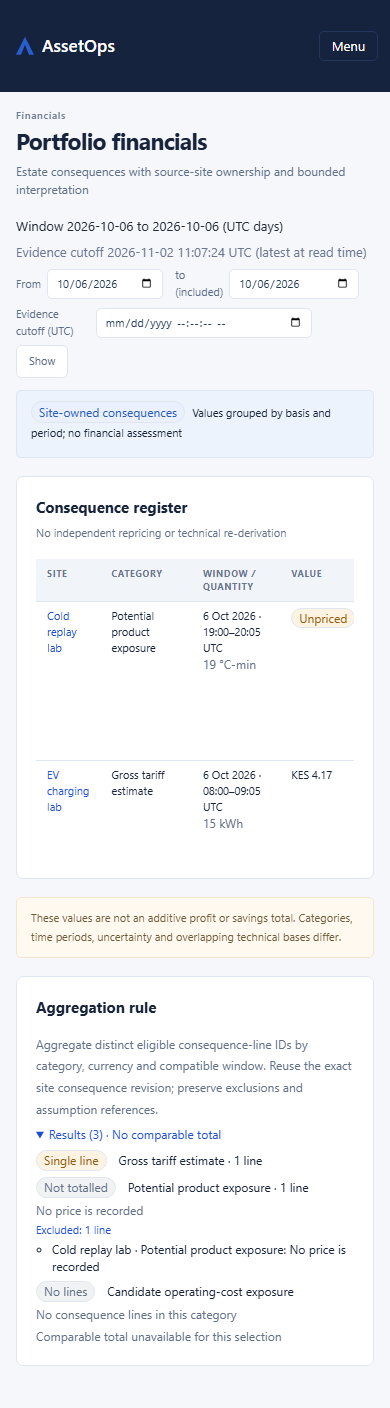
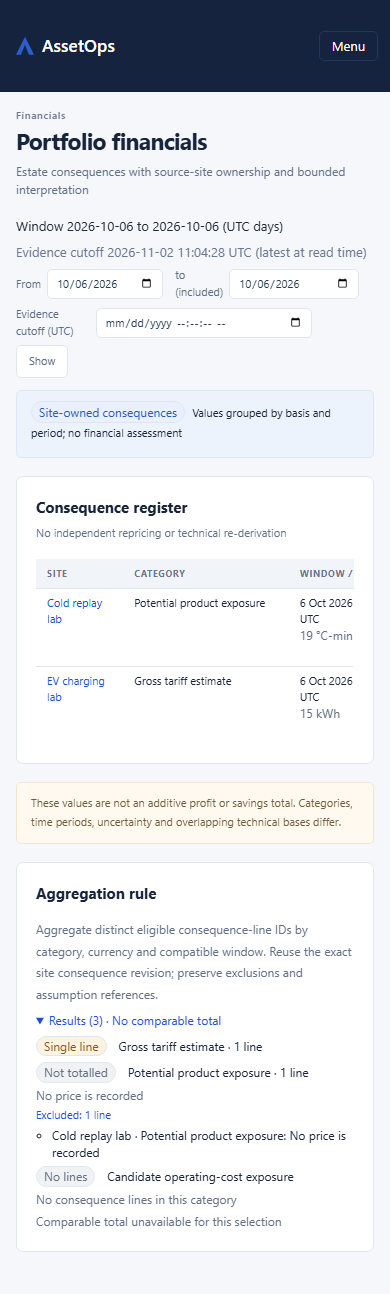
W3-02 final review fixes: 390 register shows three rows before scrolling, packet, Low fixes

diff --git a/frontend/src/estate/__tests__/estateFinancials.test.tsx b/frontend/src/estate/__tests__/estateFinancials.test.tsx
@@ -253,12 +253,12 @@ describe("W3-02 estate Financials root", () => {
     expect(cold[3].querySelector("[data-estate-eligibility='UNPRICED']")?.textContent).toBe("Unpriced");
     expect(cold[3].querySelector(".estate-chip")?.className).toContain("estate-tone--amber");
     expect(cold[4].textContent).toContain("Stock value is not declared");
-    expect(cold[4].textContent).toContain("Basis: 0 revisions");
+    expect(cold[4].textContent).toContain("Basis details");
     // EV: half even to two places as its Site page; a two-day window shows both endpoints; one kWh value.
     expect(ev[2].textContent).toBe("14 Oct 2026 · 08:00 UTC – 15 Oct 2026 · 08:00 UTC12.5 kWh");
     expect(ev[3].textContent).toBe("$36.00");
     expect(ev[4].textContent).toContain("Gross scenario only; not cash collected.");
-    expect(ev[4].textContent).toContain("Basis: 1 revision");
+    expect(ev[4].textContent).toContain("Basis details");
     // Exact IDs live in the closed basis disclosure only.
     const details = ev[4].querySelector("details") as HTMLDetailsElement;
     expect(details.open).toBe(false);
@@ -507,6 +507,13 @@ describe("W3-02 commit 4 measured Financials layout", () => {
       expect(t.client).toBeGreaterThan(0);
       expect(t.rows).toBeGreaterThan(0);
       expect(t.scroll).toBeGreaterThanOrEqual(t.client); // the table scrolls inside its own container
+      // Final review H1: the mock's three-row baseline is visible at 390 before any vertical internal scroll, and a
+      // register of up to three rows plus its notes stays within the 448 px cap.
+      const cap = parseFloat(t.maxH);
+      const threeRows = t.headH + 3 * Math.max(...t.rowHs);
+      expect(threeRows, `${state} header + 3 rows fit the list cap`).toBeLessThanOrEqual(cap);
+      expect(t.scrollH, `${state} register list does not scroll vertically at ${t.rows} rows`).toBeLessThanOrEqual(t.clientH);
+      expect(narrow!.pieces.register.h - t.clientH + threeRows, `${state} three-row register within 448`).toBeLessThanOrEqual(448);
       expect(t.client).toBeLessThanOrEqual(narrow!.docClientW);
       const all = JSON.parse(await readDisk(file)).results as Record<string, any>[];
       for (const r of all) {

diff --git a/frontend/src/estate/EstateFinancials.tsx b/frontend/src/estate/EstateFinancials.tsx
@@ -100,10 +100,9 @@ function ids(values: string[]): string {
 }
 
 function BasisDetails({ row }: { row: FinancialRow }) {
-  const n = row.assumption_revision_ids.length;
   const pinned = row.eligibility === "ELIGIBLE" ? null : lineMoney(row, row.disclosure.pinned_amount);
   return (
-    <Disclosure summary={`Basis: ${n} ${n === 1 ? "revision" : "revisions"}`} name="estate-financials-row" variant="inline">
+    <Disclosure summary="Basis details" name="estate-financials-row" variant="inline">
       <dl className="estate-evidence-facts">
         <dt>Site</dt>
         <dd>{row.site_name.trim() !== "" ? `${row.site_name} · ${row.site_code}` : row.site_code}</dd>
@@ -315,10 +314,10 @@ function AggregationResults({ body }: { body: EstateFinancialsBody }) {
       <Disclosure
         summary={
           <>
-            <span aria-hidden="true" data-estate-summary-text>
+            <span data-estate-summary-text>
               {summary.visible}
             </span>
-            <span className="visually-hidden">{summary.spoken}</span>
+            <span className="visually-hidden"> {summary.spoken}</span>
           </>
         }
         name="estate-financials-results"

diff --git a/frontend/src/ui/PageHeader.tsx b/frontend/src/ui/PageHeader.tsx
@@ -23,7 +23,7 @@ import type { ReactNode } from "react";
  * `actions` renders nothing when empty, so a screen with no action gets no
  * container and no gap.
  *
- * `eyebrow` (W3-02 c2b) is a small muted uppercase line above the title row,
+ * `eyebrow` (W3-02 c2b) is a small muted line above the title row,
  * the mock's section label over an estate root's heading (`Evidence` over
  * `Portfolio evidence`). It is not a breadcrumb, and it renders nothing when
  * empty so every other header keeps its spacing.
@@ -32,7 +32,7 @@ import type { ReactNode } from "react";
  * which is how every screen in this tree already names its `<main>`.
  */
 export interface PageHeaderProps {
-  /** A small muted uppercase line above the title row. Nothing renders when this is empty. */
+  /** A small muted line above the title row. Nothing renders when this is empty. */
   eyebrow?: ReactNode;
   /** The level-1 heading text. */
   title: ReactNode;

diff --git a/frontend/src/estate/estateFinancials.css b/frontend/src/estate/estateFinancials.css
@@ -63,6 +63,10 @@
 }
 
 @media (max-width: 640px) {
+  /* Final review H1: the three-row baseline (header + 3 measured rows) fits before the list scrolls internally. */
+  .estate-page[data-estate-root="financials"] .estate-financials-table .data-table {
+    min-width: 800px;
+  }
   .estate-financials-table .data-table__scroll {
     max-height: 300px;
   }

diff --git a/.agent/W3-02-pending-rulings.md b/.agent/W3-02-pending-rulings.md
@@ -2,14 +2,14 @@
 
 Recorded, not decided. Commit 1 code (`8d1e6325`, `c9e19695`) applies the reading named in each item; a ruling may change it.
 
-## c1-q1 - EV `historical_label` vs "explicit earlier cutoff" (affects commit 3)
+## c1-q1 - RESOLVED (Commit-1 rulings (c1), .agent/W3-02-build-spec.md) - EV `historical_label` vs "explicit earlier cutoff" (affects commit 3)
 0c `EvSiteReads.money_on` (`ev_site_reads.py:349`) sets `historical_label` only when the pinned snapshot `state == "HISTORICAL"`. That state is `known_at < watermark` in `EvReadService._snapshot` (`postgres_assessment_store.py` "historical = known_at is not None and watermark is not None and known_at < watermark"), where `known_at` is the row-local Site evidence cutoff (max disposition by the estate `k`). The 0c H1 ruling says `Historical as of {known_at}` applies "for an explicit earlier cutoff", and closure 1 Q1 / 0b M3 define HISTORICAL as estate `known_at` earlier than the captured DB time.
 They differ: an explicit earlier estate cutoff with no disposition after it gives `known == watermark`, so the state is not HISTORICAL and `historical_label` is null, while the estate rule says the row is historical. Question: should commit 3 derive the label from the estate cutoff (`snap.basis_historical`), ignoring `historical_label`, or should Lane A change the facade? Commit 1 Evidence does not use this field. It applies the estate rule itself through `snap.basis_historical`.
 
-## c1-q2 - EV `METER_GAP` input not exposed by the pinned facade
+## c1-q2 - RESOLVED (Commit-1 rulings (c1), .agent/W3-02-build-spec.md) - EV `METER_GAP` input not exposed by the pinned facade
 Closure 1 Q4 takes EV gaps from the complete `_next_candidates(missing, power_missing, unknown_meter)`. The 0c `EvSiteReads.capabilities_on` returns capabilities but not the selected sessions' `unknown_meter_seconds`. Interim: `EvidenceMoneySnapshot.ev_capabilities` (`estate/adapters/postgres_evidence_money_read.py`) calls `ev_site._sessions(ev_site._pinned_ctx(c, pin))` on the same connection. This is a private call, and the pinned context is built twice. Question: should Lane A add `unknown_meter` (or the session list) to `capabilities_on`?
 
-## c1-q3 - readings applied where the spec is silent (confirm or amend)
+## c1-q3 - RESOLVED (Commit-1 rulings (c1), .agent/W3-02-build-spec.md) - readings applied where the spec is silent (confirm or amend)
 1. EV gap codes that affect only supporting claims (`INDEPENDENT_POWER_GAP`, `SITE_IMPORT_GAP`, `TARIFF_GAP`) still form a group with `unlocks: []`. A code affects a display row only through that row's claim's missing roles.
 2. Current gaps come from CURRENT (and W1 CURRENT-day) rows only. They do not come from pending, stale, unknown or historical rows. A pending or stale row keeps its prior readiness and limitation in `disclosure.prior_selection`.
 3. `summary.capability_count` is the display-row count (equal to `total_count`) even under partial coverage. `full/limited/none/unknown_count` are non-null only when `status == CURRENT` and coverage is COMPLETE, and are zeros for EMPTY_SCOPE. `limited_site_count` is also null when any row is CONTRADICTORY ("null affected count").
@@ -22,14 +22,14 @@ Closure 1 Q4 takes EV gaps from the complete `_next_candidates(missing, power_mi
 
 Recorded, not decided. Commit 2 (`d9f898e7`) applies the reading named in each item.
 
-## c2-q1 - gap `Sites` cell names
+## c2-q1 - RESOLVED (Commit-2 rulings (c2/c2b), .agent/W3-02-build-spec.md) - gap `Sites` cell names
 Closure 1 says the gaps `Sites` cell shows sorted stored Site names with codes in disclosure. The accepted commit-1
 wire `gaps[]` carries `site_ids` and `site_codes` only, and `rows` is paged, so a gap's Site may not be on the page.
 Interim: the page maps code -> name from the loaded rows and falls back to the stored code; codes are in the gap's
 disclosure. Question: should commit-1's `_groups` add `site_names` (Lane B `estate/evidence_money.py`), or is the
 code fallback acceptable?
 
-## c2-q2 - refusal copy for codes the W3-02 state table does not name
+## c2-q2 - RESOLVED (Commit-2 rulings (c2/c2b), .agent/W3-02-build-spec.md) - refusal copy for codes the W3-02 state table does not name
 The table names copy for 401/403/404/503, `ESTATE_BASIS_CHANGED`, `INVALID_WINDOW`, `ESTATE_PARAMETER_UNKNOWN`/
 `ESTATE_CURSOR_INVALID`. The endpoint actually sends W3-01 codes, including `ESTATE_SELECTION_INCONSISTENT`,
 `INVALID_KNOWN_AT`, `INVALID_LIMIT`, `INVALID_CURSOR`, `ESTATE_STORE_UNAVAILABLE`. Interim (`EVIDENCE_REFUSAL_COPY`):
@@ -37,7 +37,7 @@ The table names copy for 401/403/404/503, `ESTATE_BASIS_CHANGED`, `INVALID_WINDO
 `INVALID_CURSOR` -> `This selection cannot be read. Reset the filters.` (the W3-01 `INVALID_KNOWN_AT` copy says
 "cutoff", which the plain-language rule excludes). Confirm or amend.
 
-## c2-q3 - closure-5 B5 route-read tests for commit 2
+## c2-q3 - RESOLVED (Commit-2 rulings (c2/c2b), .agent/W3-02-build-spec.md) - closure-5 B5 route-read tests for commit 2
 B5 asks commit 2 route-read tests to follow generated cold/EV Evidence links into the Site read and assert the exact
 window/cutoff, no 422 and base-route fallback. Commit 1's Postgres tests assert the link shape
 (`test_w302_evidence_cold_scope_windows_and_citations`, `test_w302_evidence_ev_window_rows_links_and_gaps`) but do
@@ -45,13 +45,13 @@ not call the W2 Site read with it. This run built only the page/client and UI te
 into the W2 cold/EV Site API a Lane B Postgres test for this commit (new `test_w302_evidence_links_postgres.py`), or
 part of Lane A's mounted-route captures?
 
-## c2-q4 - row context words
+## c2-q4 - RESOLVED (Commit-2 rulings (c2/c2b), .agent/W3-02-build-spec.md) - row context words
 The ledger says pending amber / historical blue context is shown separately from the readiness chip. The page uses
 `New evidence is being assessed` (PENDING_RECOMPUTE), `May miss newer readings` (STALE_SOURCE), `Not yet assessed`
 (UNASSESSED/UNKNOWN placeholder) and `Historical as of {estate known_at}`; the server's row
 `disclosure.historical.label` stays in the row disclosure. Confirm the words.
 
-## c2-q5 - registry prerequisites for `I-estate-evidence-root` (Lane A, commit 2)
+## c2-q5 - RESOLVED (Commit-2 rulings (c2/c2b), .agent/W3-02-build-spec.md) - registry prerequisites for `I-estate-evidence-root` (Lane A, commit 2)
 Closure 5 S13 names the node, title and paths but not prerequisites or area. The checker forces the panel area to the
 subject-area brief's owner of `globalevidence` (`estate-aggregation`), and needs a UI, a projection and a data gate.
 Lane A recorded, by the W3-01 `I-estate-action-root` precedent: node `requires` `A-estate-index-scope`,
@@ -59,10 +59,10 @@ Lane A recorded, by the W3-01 `I-estate-action-root` precedent: node `requires` 
 `D-estate-comparable-sites`, status `gap` (awaiting independent review, no owner acceptance); ledger product node
 `P-estate-area`; the brief's `implementation_nodes` lists the new node. Confirm or name the intended nodes.
 
-## c2-q6 - B5 route-read follow tests and capture copy (Lane A observation, commit 2)
+## c2-q6 - RESOLVED (Commit-2 rulings (c2/c2b), .agent/W3-02-build-spec.md) - B5 route-read follow tests and capture copy (Lane A observation, commit 2)
 c2-q3 is unchanged by the captures: Lane A's captures do not follow generated cold/EV links into the W2 Site read.
 
-## c2-q7 - raw role code in the Current ceiling cell (Lane B, commit 2 fixes)
+## c2-q7 - RESOLVED (Commit-2 rulings (c2/c2b), .agent/W3-02-build-spec.md) - raw role code in the Current ceiling cell (Lane B, commit 2 fixes)
 The cold `backup` row's `Current ceiling` shows `Not observed: TRANSFER.` That text is the stored cold analytic
 limitation (`analytics/cold.py:645`, `"Not observed: " + ", ".join(missing) + "."`, where `missing` holds start-chain
 step names such as `TRANSFER`), carried verbatim into `current_ceiling` by `_shape_window_row` (limitations joined).
@@ -72,7 +72,7 @@ Question: (a) map on the Evidence wire (estate `current_ceiling` gets a plain se
 stored limitation kept in `Record details`), (b) map on the page from a closed step dictionary, or (c) leave the stored
 limitation verbatim and accept it? If (a)/(b), name the step words (the cold chain's steps: which codes and labels).
 
-## c2-q8 - Evidence tests do not settle on the store read (Lane A observation, commit 2 c2b)
+## c2-q8 - RESOLVED (Commit-2 rulings (c2/c2b), .agent/W3-02-build-spec.md) - Evidence tests do not settle on the store read (Lane A observation, commit 2 c2b)
 `frontend/src/test/settled.ts` `LOADING` does not list `EstateEvidence.tsx`'s loading copy `Loading evidence across the
 estate.`, so `settledScreen()` returns immediately in `estateEvidence.test.tsx` and the assertions race the fake read.
 Under full-suite load it flaked twice on `39afe950` (`rendersEvidenceEmptyPendingAndRefusals` line 323, panels `[]`;
@@ -80,7 +80,7 @@ once `namesGapSitesFromTheWireNotThePage`), and the file passes alone (4/4 runs)
 test infra outside c2b's assignment. Question: who adds `evidence across the estate` to `LOADING` (Lane A shared test
 helper, or Lane B with its page), and in which commit?
 
-## c3-q1 - closure 2 N3 STOP: two-EV-Site persisted COMPARABLE fixture unavailable through reviewed producers (Lane B, commit 3)
+## c3-q1 - RESOLVED (Commit-3 rulings (c3), .agent/W3-02-build-spec.md) - closure 2 N3 STOP: two-EV-Site persisted COMPARABLE fixture unavailable through reviewed producers (Lane B, commit 3)
 Built: Financials read/API (`estate/financials.py`, `estate_evidence_money_api.py` `/api/estate/financials`,
 `postgres_evidence_money_read.py` `cold_money`/`ev_money`, `evidence_money.py:group_key_for_partition`), pure tests
 and one persisted single-EV-Site proof (`test_w302_money_comparability_postgres.py::test_w302_money_persisted_ev_single_site_line`:
@@ -98,7 +98,7 @@ fixture (code, import YAML, bindings, gateway) and a same-DB two-chain harness, 
 proof contract (e.g. two disjoint EV windows on EV-LAB-001 with the same tariff, which differ in `window_start/end`
 and so can never share a partition); or (c) another fixture you name.
 
-## c3-q2 - interpretations taken in commit 3 (confirm or correct)
+## c3-q2 - RESOLVED (Commit-3 rulings (c3), .agent/W3-02-build-spec.md) - interpretations taken in commit 3 (confirm or correct)
 1. `RECORDED_REPAIR` lines are listed/partitioned when a stored head exists but the category gets no `NO_LINES`
    sentinel (outside the three-category mock enum). Sentinel categories: mini-grid operating cost, cold product
    exposure, EV gross tariff.
@@ -113,7 +113,7 @@ and so can never share a partition); or (c) another fixture you name.
    cited IDs are the lines' basis evidence union; Finding/consequence/assumption arrays come from the lines.
 7. `test_w302_money_unknown_coverage_precedes_no_lines` runs over the fake snapshot (pure) in the named Postgres file.
 
-## c3-q3 - c3-q1 fixture: the second registered draft run is refused (Lane B, commit 3; N3 still holds)
+## c3-q3 - RESOLVED (Commit-3 rulings (c3), .agent/W3-02-build-spec.md) - c3-q1 fixture: the second registered draft run is refused (Lane B, commit 3; N3 still holds)
 Built per c3-q1 at `fefa5ab4`: `backend/tests/fixtures/w3/ev-lab-002.yaml`, `backend/conversions/ev-lab-002-bindings.json`,
 `install_second_ev_site` and `two_ev_sites` in `test_w302_money_comparability_postgres.py`, and the W2-05b harness
 parameters (`ev_request(case, *, site_code, seed)`, `Chain.open(*, fresh, install)`, Site-coded `_gateway/scope/replay`).
@@ -167,7 +167,7 @@ validated Site/seed in `EvScenarioDefinition`; `(EV-LAB-001, 20517)` unchanged f
 
 # W3-02 pending rulings (Lane B, commit 4)
 
-## c4-q1 - copy readings taken on the Financials page (confirm or correct)
+## c4-q1 - RESOLVED (Commit-4 rulings (c4), .agent/W3-02-build-spec.md) - copy readings taken on the Financials page (confirm or correct)
 Built and tested; not blocking. Each is page copy only (`frontend/src/estate/estateFinancialsWords.ts`, `EstateFinancials.tsx`).
 1. `PENDING` line `Value` word `Pending` (amber); the ledger lists Unpriced/Withheld/Unknown/Historical/Not comparable
    only. `CONFLICT` = `Not comparable` (red); `HISTORICAL` = `Historical as of {as_of}` (blue).
@@ -188,7 +188,7 @@ Built and tested; not blocking. Each is page copy only (`frontend/src/estate/est
 7. Exclusions render per group in a closed `Excluded: N lines` disclosure (Site · category: reasons; an off-page line
    shows its line key).
 
-## c4-q2 - registry prerequisites and ledger literal for `I-estate-money-root` (Lane A, commit 4)
+## c4-q2 - RESOLVED (Commit-4 rulings (c4), .agent/W3-02-build-spec.md) - registry prerequisites and ledger literal for `I-estate-money-root` (Lane A, commit 4)
 Closure 5 S13 names the node, screen title and paths but not area or prerequisites. The checker forces the panel area
 to the subject-area brief owner of `globalfinancials` (`money`). Lane A recorded, by the c2-q5 Evidence precedent:
 node area `money`, `requires` `A-estate-index-scope`, `I-financial-read`; panels `globalfinancials:1`
@@ -198,7 +198,7 @@ node area `money`, `requires` `A-estate-index-scope`, `I-financial-read`; panels
 commit-4 item 4 proposed; money brief `implementation_nodes` lists the node. Confirm, or name the intended
 area/nodes and the data_owner literal.
 
-## c4-q3 - stocked capture has no mini-grid line (Lane A, commit 4 captures)
+## c4-q3 - RESOLVED (Commit-4 rulings (c4), .agent/W3-02-build-spec.md) - stocked capture has no mini-grid line (Lane A, commit 4 captures)
 The capture seed (`.agent/W3-02-evidence/serve-financials.py`: KOBO S4 F01/F02 + S6, COLD excursion + W2-04 worker,
 EV interrupted + W2-07 money) yields two register lines (cold UNPRICED, EV ELIGIBLE); KOBO has no stored W1
 consequence on 2026-10-06 or 2026-10-05..12, and no persisted W1 money seed exists in the W3-02 tests. The mock

diff --git a/.agent/W3-02-review-packet.md b/.agent/W3-02-review-packet.md
@@ -1,0 +1,81 @@
+# W3-02 review packet (estate Evidence and Financials roots)
+
+Task: W3-02, `tasks/W3-02-estate-evidence-money-basis.md`; contract `.agent/W3-02-build-spec.md` (rulings c1-c4b).
+Branch `task/W3-02-estate-evidence-money-basis` (head `5fe9d4b2`); final-review fixes on `task/W3-02-fix-final`.
+USER_REVIEW: UI slice; hold the merge for the owner walkthrough (W1 rule).
+
+## Commits (one Lane B/Lane A pair per phase)
+1 backend Evidence read/API `c9e19695` `71c00d59` `9efa3914` `33b9711e` (fix r1). 2 Evidence page `d9f898e7`, shell/registry
+`9e05d970`, fixes `cd98969a` `ce75d9c4`, c2b `39afe950`, c2c `93b065e8`, fix r1 `e45f4219`. 3 Financials read/API `54625bdc`,
+c3-q2 `181f62c6`, c2d `f9ef4034`, two-Site fixture `6f065647`/`f1e49236`, r1 fixes `f4242856`. 4 Financials page `97d00521`,
+shell/registry/links `d59dad32` `36fcf8ac` `e3d18027`, c4 fixes `d2519fd3`, c4b `5fe9d4b2`. Final-review fix: this branch.
+Merges of `main` and handoff-only commits omitted.
+
+## Files materially changed
+- Backend: `estate/evidence_money.py`, Evidence and Financials routers, `ev_site_reads.py` (`capabilities_on`,
+  `claim_limit_on`, `select_consequence_on`), test-only `ev-complete-lab-002` fixture, Postgres tests `test_w302_*`.
+- Frontend: `estate/EstateEvidence.tsx`, `EstateFinancials.tsx`, `estateFinancialsWords.ts`, clients, `estateEvidence.css`,
+  `estateFinancials.css`; shared: `ui/PageHeader.tsx` (eyebrow), `primitives.css`, rail (Evidence and Financials live),
+  `settled.ts` loading regex, shell route frames, registry/ledger entries, two navigation guard fixtures.
+- Evidence tooling `.agent/W3-02-evidence/` (serve/capture scripts, mock measurements, 1440/390 PNG and JSON).
+
+## Acceptance (task exit criteria)
+| Criterion | Status / proof |
+| --- | --- |
+| Evidence: every authorized Site's capabilities, coverage/currentness, Site destinations; gaps only from typed roles; no mock Action | Met. Commit 1-2 Postgres + `estateEvidence.test.tsx`; reviews below ACCEPT |
+| Financials: exact selected consequence revisions, bounded/unpriced/withheld values, lineage; totals only in complete comparable groups; no cross-category inference | Met. Commit 3 reads, `rendersComparableAndExcludedReasons`, two-Site COMPARABLE fixture (c3b), `PARTITION_INELIGIBLE` plain words; no estate total |
+| Window and `known_at` retained; missing/pending/conflicting Sites visible; unknown never zero | Met. Notes (empty scope, no selection, partial, L5 prior mini-grid, conflict, historical); link-follow tests (`test_w302_financials_links_postgres.py`) |
+| Positive, empty, pending, mixed-source, mixed-currency, overlapping-basis variants | Met in tests; captures cover positive and partial (pending); mini-grid line absent (limitation below) |
+| Mock layout (panel set/order/titles, 1440/390 maxima) | Met after the final fix; see captures |
+
+## Builder readings and rulings
+All pending readings (c1-q1..q3, c2-q1..q8, c3-q1..q3, c3b-q1/q2, c4-q1..q4) are resolved by the build-spec rulings c1,
+c2/c2b, c3/c3b, c4/c4b; `.agent/W3-02-pending-rulings.md` now marks each with its section. Key readings: EV
+`historical_label` and `METER_GAP` input (c1-q1/q2), refusal copy for unnamed W3-01 codes (c2-q2), gap `site_names`
+(c2-q1), raw cold role code replaced by plain sentences (c2-q7), second EV Site admitted test-only for
+`ev-complete-lab-002` (c3b), Aggregation prose at 12px/1.8 with one closed results summary (c4/c4b). Per-commit detail:
+`.agent/W3-02-phase-handoff.md`.
+
+## Independent reviews
+| Unit | Verdict |
+| --- | --- |
+| spec review / closure checks | `W3-02-spec-review.md`, `closure-check*.md`: closed before build |
+| 0a | ACCEPT (`W3-02-0a-review.md`) |
+| 0b | REVISE then REVISE (one mechanical deletion) (`0b-review`, `0b-rereview`), fixed |
+| 0c | REVISE then ACCEPT (`0c-review`, `0c-rereview`) |
+| commit 1 | REVISE then ACCEPT, two Lows (`commit1-review`, `commit1-rereview`) |
+| commit 2 | REVISE then ACCEPT (`commit2-review`, `commit2-rereview`) |
+| commit 3 | REVISE then ACCEPT (`commit3-review`, `commit3-rereview`) |
+| commit 4 / whole slice | REVISE at `5fe9d4b2` (H1 narrow register scroll, M1 packet, 4 Lows); this fix round closes them |
+
+## Accepted limitations
+- c4-q3: "Three Sites are in scope; two have selected consequence lines. The mini-grid has no selected consequence revision
+  for this window, so no mini-grid amount appears in the register. The two-row register height is not a three-row
+  mock-density proof; the 293/448 px register maxima still apply." (also in both capture JSONs as `limitation`.) The
+  three-row fit is now asserted from measured row heights (below).
+- Notice has no info icon and the status chip size differs slightly (shared primitives, W1 UI pass).
+- Registry and ledger entries `I-estate-money-root`, `globalfinancials:1-2` stay `gap` (c4-q2).
+
+## Final-review fixes (this round)
+- H1: at 390 the table is 800 px wide (inside its own horizontal scroll) with `max-height: 300px`; rows measure 78 px, header
+  30, so header + 3 rows = 264 <= 300 and no vertical scroll (register positive 288, partial 332; three-row worst case
+  partial 332 - 185 + 264 = 411 <= 448). Test asserts header + 3 x max row <= cap, scrollH <= clientH, and the three-row
+  register <= 448 from `app-financials-*.json` (`maxH`, `headH`, `rowHs` now captured).
+- M1: this packet. L1 rulings marked. L2: summary text exposed, full sentence appended visually hidden (name = visible text +
+  sentence). L3: `Basis details` replaces `Basis: N revisions`. L4: PageHeader comment corrected.
+
+## Captures (private `w302z_test`, dropped; servers stopped by port)
+`financials-{positive,partial}-{1440,390}[-open]-app.png`, `app-financials-*.json`. Positive 390 viewed: two rows,
+no clipped row, no raw code. Heights (max): 1440 status 46 (68), register 256/280 (293), notice 43 (66), aggregation 121
+(123); 390 status 69 (95), register 288/332 (448), notice 61 (102), aggregation 186 (187). Document width = client width at
+both widths. Mock rectangles for both widths are in the JSON and `.agent/W3-02-mock-measurements.md`.
+`tools/layout-evidence.mjs`: not run; the custom CDP script `capture-financials.mjs` supplied the measurements.
+
+## Checks
+Final fix revision: focused `src/estate src/ui` 101 passed; full frontend 102 files / 2435 passed, tsc clean, build ok,
+check-all 11/11. Full real-Postgres suite: run by the coordinator on review2 at `5fe9d4b2`
+(backend unchanged since; JUnit cases/skipped/failed and wall time to be cited by the coordinator from that run).
+
+## Residual risk
+Mock comparison is by measured rectangles, not pixel diff. A third register note plus three rows is bounded by the test's
+computed 411 px estimate, not by a captured three-row state. Only positive and partial states are captured.
